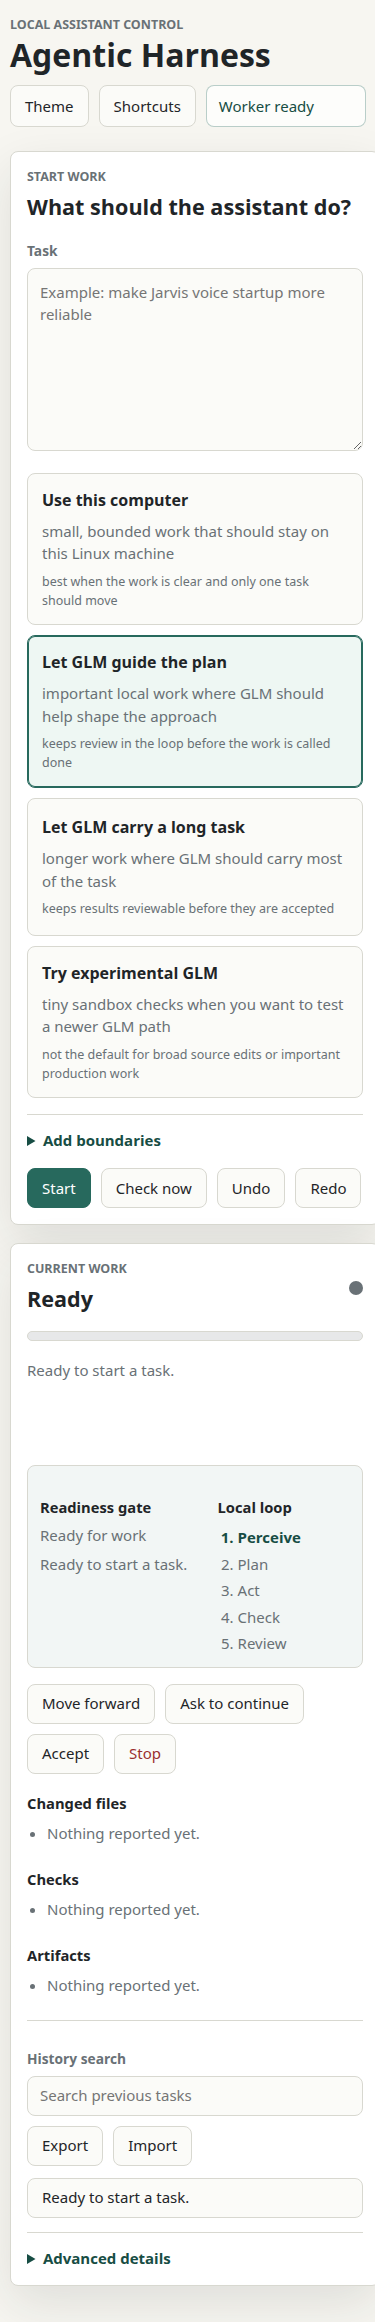
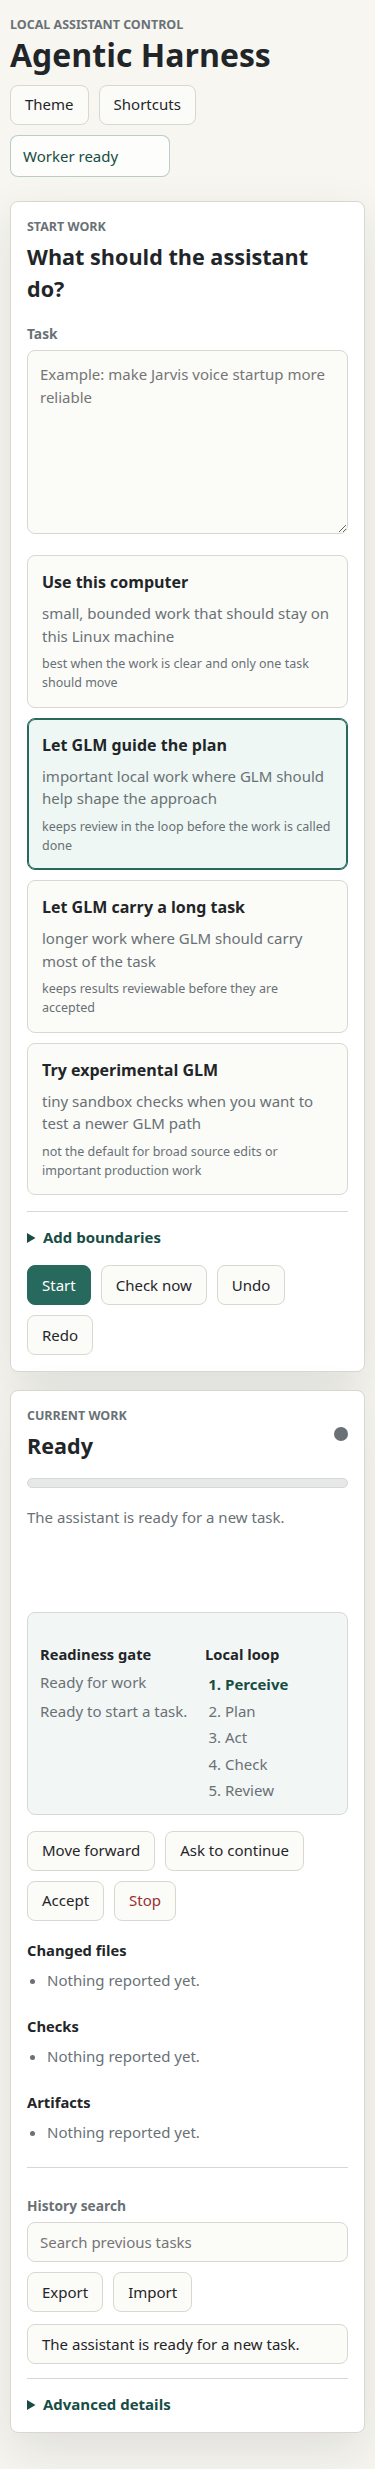
Release v0.6.27 with human-ready status text

Changed region(s): [[0.0293, 0.0, 0.9973, 0.9922], [0.8507, 0.062, 0.9387, 0.093], [0.9093, 0.186, 0.9387, 0.2171]]

diff --git a/tests/test_gui_api.py b/tests/test_gui_api.py
@@ -82,6 +82,36 @@ def test_task_summary_hides_backend_actors_but_preserves_raw_evidence() -> None:
     ] == backend_summary
 
 
+def test_ready_summary_hides_backend_control_language() -> None:
+    backend_summary = (
+        "No local goal is running. Hermes may start one only on explicit "
+        "operator/Codex request."
+    )
+    result = CommandResult(
+        args=("local-goal", "status", "--json"),
+        returncode=0,
+        stdout=json.dumps(
+            {
+                "classification": "idle",
+                "capabilities": {
+                    "current_state": {"recommended_action": backend_summary},
+                },
+            }
+        ),
+        stderr="",
+    )
+
+    task = task_from_command_result(result, fallback_status="ready")
+
+    assert task["status"] == "ready"
+    assert task["summary"] == "The assistant is ready for a new task."
+    for term in ("local goal", "hermes", "operator", "codex"):
+        assert term not in task["summary"].lower()
+    assert task["advanced_details"]["payload"]["capabilities"]["current_state"][
+        "recommended_action"
+    ] == backend_summary
+
+
 def test_task_summary_hides_internal_generated_objective() -> None:
     result = CommandResult(
         args=("local-goal", "status", "--json"),

diff --git a/agentic_harness/gui/api.py b/agentic_harness/gui/api.py
@@ -12,7 +12,8 @@ from agentic_harness.core.local_goal_bridge import CommandResult, HUMAN_MODES, L
 TaskPayload = dict[str, Any]
 
 _TECHNICAL_SUMMARY_TERMS = (
-    "hermes watcher",
+    "hermes",
+    "local goal",
     "node1",
     "opencode",
     "vllm",

diff --git a/docs/PYPI_TRUSTED_PUBLISHING.md b/docs/PYPI_TRUSTED_PUBLISHING.md
@@ -5,8 +5,8 @@ and source distributions. PyPI publishing should use GitHub Actions trusted
 publishing, which avoids storing a PyPI token in repository secrets.
 
 The publish workflow is checked in at `.github/workflows/publish.yml`.
-`docs/templates/publish.yml` is retained only as a reference copy. Configure the
-PyPI trusted publisher below before expecting release publishes to succeed.
+`docs/templates/publish.yml` is retained only as a reference copy. The trusted
+publisher described below is configured and was verified by the v0.6.26 upload.
 
 Before uploading, the workflow installs the project with test extras and runs:
 
@@ -17,8 +17,9 @@ python -m agentic_harness.cli release-smoke --dist-dir dist
 That command builds the wheel and sdist, runs `twine check`, installs both
 artifacts in fresh virtual environments, runs the packaged demo from each
 artifact, verifies the final demo tests, and writes `SHA256SUMS` beside the
-verified artifacts. The PyPI publish action uploads the same `dist/` artifacts
-only after that gate passes.
+verified artifacts. The workflow then copies only `*.whl` and `*.tar.gz` into
+`pypi-dist/` for PyPI; `SHA256SUMS` remains release evidence and is not passed to
+the PyPI upload action.
 
 ## Name Availability Blocker
 
@@ -31,37 +32,37 @@ name while keeping the installed CLI command as `agentic-harness`.
 
 ## Required External Setup
 
-Configure a PyPI trusted publisher for:
+The configured PyPI trusted publisher uses:
 
 - PyPI project: `local-agentic-harness`
 - Owner/repository: `moortekweb-art/agentic-harness`
 - Workflow: `.github/workflows/publish.yml`
 - Environment: `pypi`
 
-The observed GitHub/PyPI trusted-publishing claims from the first `v0.6.9`
-release attempt were:
+The observed GitHub/PyPI trusted-publishing claims use:
 
 - `sub`: `repo:moortekweb-art/agentic-harness:environment:pypi`
 - `repository`: `moortekweb-art/agentic-harness`
 - `repository_owner`: `moortekweb-art`
-- `workflow_ref`: `moortekweb-art/agentic-harness/.github/workflows/publish.yml@refs/tags/v0.6.9`
-- `ref`: `refs/tags/v0.6.9`
+- `workflow_ref`: `moortekweb-art/agentic-harness/.github/workflows/publish.yml@<release-ref>`
+- `ref`: the selected release tag or explicitly dispatched branch
 - `environment`: `pypi`
 
-After the external PyPI setup exists, publishing a GitHub release runs the
-`Publish` workflow and uploads the release-smoke-verified distributions built
-from that release.
+Publishing a GitHub release runs the `Publish` workflow and uploads the
+release-smoke-verified distributions built from that release. The workflow can
+also be dispatched manually for a controlled recovery after a workflow-only
+fix.
 
 ## Current Publish Status
 
-The active workflow ran on `v0.6.9` and reached the PyPI trusted-publishing
-exchange. PyPI rejected it with `invalid-publisher`, meaning the GitHub workflow
-is active but PyPI does not yet have a matching trusted publisher configured for
-this project.
+`local-agentic-harness` v0.6.26 is public on PyPI. Workflow run `29074514346`
+completed the build, wheel/sdist smoke tests, trusted-publishing exchange,
+upload, and digital attestations successfully.
 
-After configuring the PyPI trusted publisher, publish a new release tag such as
-`v0.6.25` so the upload includes the release-smoke-gated publish workflow and
-checksum-manifest generation.
+The first v0.6.26 release-triggered run failed before the trusted-publishing
+exchange because the upload action tried to parse `dist/SHA256SUMS` as a Python
+distribution. PR #4 added the dedicated `pypi-dist/` staging directory; the
+successful recovery run verified that only the wheel and sdist are uploaded.
 
 ## Manual Verification
 
@@ -69,24 +70,8 @@ checksum-manifest generation.
 python -m pip install -e ".[test]"
 python -m agentic_harness.cli release-smoke --dist-dir /tmp/agentic-harness-dist
 python -m pip index versions local-agentic-harness
-gh release view v0.6.9 --repo moortekweb-art/agentic-harness
-gh release view v0.6.10 --repo moortekweb-art/agentic-harness
-gh release view v0.6.11 --repo moortekweb-art/agentic-harness
-gh release view v0.6.12 --repo moortekweb-art/agentic-harness
-gh release view v0.6.13 --repo moortekweb-art/agentic-harness
-gh release view v0.6.14 --repo moortekweb-art/agentic-harness
-gh release view v0.6.15 --repo moortekweb-art/agentic-harness
-gh release view v0.6.16 --repo moortekweb-art/agentic-harness
-gh release view v0.6.17 --repo moortekweb-art/agentic-harness
-gh release view v0.6.18 --repo moortekweb-art/agentic-harness
-gh release view v0.6.19 --repo moortekweb-art/agentic-harness
-gh release view v0.6.20 --repo moortekweb-art/agentic-harness
-gh release view v0.6.21 --repo moortekweb-art/agentic-harness
-gh release view v0.6.22 --repo moortekweb-art/agentic-harness
-gh release view v0.6.23 --repo moortekweb-art/agentic-harness
-gh release view v0.6.24 --repo moortekweb-art/agentic-harness
-gh release view v0.6.25 --repo moortekweb-art/agentic-harness
-gh run view 28703761225 --repo moortekweb-art/agentic-harness --log-failed
+gh release view v0.6.26 --repo moortekweb-art/agentic-harness
+gh run view 29074514346 --repo moortekweb-art/agentic-harness
 ```
 
 The publish workflow should not use `PYPI_TOKEN`, `username`, or `password`.

diff --git a/docs/RELEASE_NOTES_0.6.27.md b/docs/RELEASE_NOTES_0.6.27.md
@@ -1,0 +1,23 @@
+# Agentic Harness v0.6.27
+
+This patch release removes the final backend-control wording from the GUI's
+ready state and records the now-working PyPI trusted-publishing path.
+
+## Changes
+
+- Ready-state summaries containing local-goal or Hermes control language are
+  translated to "The assistant is ready for a new task." on the main surface.
+- The original backend response remains available in Advanced details for
+  diagnosis and audit evidence.
+- Regression coverage now includes the real idle response that previously
+  exposed `local goal`, `Hermes`, `operator`, and `Codex` terminology.
+- PyPI documentation now records the successful v0.6.26 trusted-publishing run
+  and the wheel/sdist-only staging fix used by the publish workflow.
+- Desktop and mobile captures are refreshed from the corrected release
+  candidate.
+
+## Verification
+
+- Full Python, Ruff, mypy, compile, package, and release-smoke gates pass.
+- Browser checks cover desktop and mobile layouts, all four modes, horizontal
+  overflow, console/page errors, and backend-language leakage.

diff --git a/docs/RELEASE_CHECKLIST.md b/docs/RELEASE_CHECKLIST.md
@@ -1,6 +1,6 @@
 # Release Checklist
 
-Use this checklist for a v0.6.26 release.
+Use this checklist for a v0.6.27 release.
 
 ## Before Tagging
 
@@ -57,21 +57,22 @@ Use this checklist for a v0.6.26 release.
 Create and push the tag:
 
 ```bash
-git tag v0.6.26
-git push origin v0.6.26
+git tag v0.6.27
+git push origin v0.6.27
 ```
 
 Create the GitHub release:
 
 ```bash
-gh release create v0.6.26 --title "v0.6.26" --notes-file docs/RELEASE_NOTES_0.6.26.md
+gh release create v0.6.27 --title "v0.6.27" --notes-file docs/RELEASE_NOTES_0.6.27.md
 ```
 
 ## PyPI Publishing
 
 PyPI publishing has an active trusted-publishing workflow at
 `.github/workflows/publish.yml` for the `local-agentic-harness` distribution.
-The publish job runs `agentic-harness release-smoke --dist-dir dist` and uploads
-the same verified `dist/` artifacts only if release-smoke passes.
-Complete the external trusted publisher setup documented in
+The publish job runs `agentic-harness release-smoke --dist-dir dist`, keeps the
+checksum manifest with the release evidence, and copies only the verified wheel
+and sdist into `pypi-dist/` for upload after release-smoke passes.
+Verify the trusted-publisher identity and current status documented in
 `docs/PYPI_TRUSTED_PUBLISHING.md` before relying on release-triggered uploads.

diff --git a/README.md b/README.md
@@ -102,7 +102,7 @@ the missing optional executable and how to configure it.
 
 Agentic Harness is a Python application. Its GUI is rendered by packaged
 HTML/CSS/JS files served by the Python backend; there is no Node, Electron,
-Tauri, or native widget runtime in the v0.6.26 GUI. The packaged browser app
+Tauri, or native widget runtime in the v0.6.27 GUI. The packaged browser app
 includes live status updates over WebSocket, progress indicators, task history
 search, dark/light theme switching, keyboard shortcuts, session export/import,
 and local form undo/redo.
@@ -200,8 +200,8 @@ transcripts, artifacts, loop limits, and review gates.
 ## Project Links
 
 - [Examples](examples/) include shell, coding-agent, the fix-failing-tests demo, local LLM, tmux, GitHub Actions, and real-world recipe examples.
-- [Release checklist](docs/RELEASE_CHECKLIST.md) documents the v0.6.26 release checks.
-- [PyPI trusted publishing](docs/PYPI_TRUSTED_PUBLISHING.md) documents the active publish workflow and external PyPI setup required for tokenless publishing.
+- [Release checklist](docs/RELEASE_CHECKLIST.md) documents the v0.6.27 release checks.
+- [PyPI trusted publishing](docs/PYPI_TRUSTED_PUBLISHING.md) documents the active tokenless workflow and its verified release path.
 - [Repo artwork](docs/assets/) includes a social preview banner and square icon.
 - [Support the project](https://buymeacoffee.com/moortekweb3) via Buy Me a Coffee.
 - [Attraction plan](ATTRACTION_PLAN.md) captures public project positioning and follow-up ideas.

diff --git a/docs/GUI_ARCHITECTURE.md b/docs/GUI_ARCHITECTURE.md
@@ -2,7 +2,7 @@
 
 ## Release Shape
 
-Agentic Harness v0.6.26 is a Python application with a local browser interface.
+Agentic Harness v0.6.27 is a Python application with a local browser interface.
 The Python process serves packaged HTML, CSS, and JavaScript from loopback and
 adapts an optional local-goal installation into a stable human-facing API.
 

diff --git a/docs/GUI_DESIGN.md b/docs/GUI_DESIGN.md
@@ -18,7 +18,7 @@ Advanced details so the default surface stays readable.
 
 ## Shipped Interface
 
-![Agentic Harness v0.6.26 desktop interface](assets/agentic-harness-gui.png)
+![Agentic Harness v0.6.27 desktop interface](assets/agentic-harness-gui.png)
 
 The same workbench stacks into a single readable column at narrow widths. See
 the [mobile capture](assets/agentic-harness-gui-mobile.png).